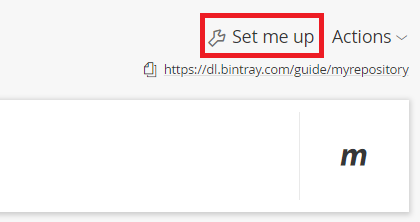
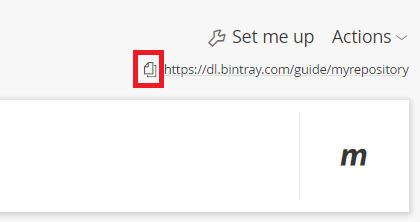
Fixed typos and image sizes

Changed region(s): [[0.4643, 0.0541, 0.7738, 0.2703], [0.3095, 0.2162, 0.4024, 0.4054]]

diff --git a/publish-kotlin-mpp-lib.html b/publish-kotlin-mpp-lib.html
@@ -60,7 +60,7 @@
                 <li>Add a new repository:</li>
             </ul>
 
-            <p><img src="images/publish-kotlin-mpp-lib/add-new-repository.png" class="img-responsive"
+            <p><img src="images/publish-kotlin-mpp-lib/add-new-repository.png"
                     alt="add new repostiory"/></p>
 
             <ul>
@@ -77,12 +77,12 @@
                 <li>Add a package:</li>
             </ul>
 
-            <p><img src="images/publish-kotlin-mpp-lib/add-new-package.png" alt="add new package" class="img-responsive"/>
+            <p><img src="images/publish-kotlin-mpp-lib/add-new-package.png" alt="add new package"/>
             </p>
 
             <ul>
                 <li><p>Under <b>Name </b> put in the name of the library. This should be a
-                    lower-case string. In this guide we will make publish a library that provides a
+                    lower-case string. In this guide we will publish a library that provides a
                     function that prints "Kotlin is awesome!", so we will call it <code>kotlin-awesome-printer</code>.
                 </p></li>
 
@@ -269,10 +269,10 @@ bintrayUpload.dependsOn publishToMavenLocal
                 the root directory.
                 Make sure you see <code>gradle.properties</code> is yellow in the IDE before
                 committing your changes to source control (git).
-                Now, add these constants to <code>gradle.properties</code>.    <code>bintrayUser</code>
+                Now, add these constants to <code>gradle.properties</code>. <code>bintrayUser</code>
                 - The username you signed up to bintray with. You can see this in your profile.
                 <code>bintrayApiKey</code> - To get this, go to edit profile -> API Key and then
-                copy to API Key.</p>
+                copy the API Key.</p>
 
             <pre><code>bintrayUser=
 bintrayApiKey=
@@ -291,12 +291,9 @@ bintrayApiKey=
             <h3 id="step4tellyourusershowtouseyourlibrary">Step 4: Tell your users how to use your
                 library</h3>
 
-            <p>Go to your package in Bintray and press <code>Set me up</code>:</p>
+            <p>Copy the link below <code>Set me up</code>:</p>
 
-            <p><img src="images/publish-kotlin-mpp-lib/set-me-up.png" class="img-responsive" class="img-responsive"  alt="set me up"/></p>
-
-            <p>Open up <code>Resolving artifacts using Gradle</code>. Copy the url that is presented
-                there (in our example it's "https://dl.bintray.com/guide/myrepository")</p>
+            <p><img src="images/publish-kotlin-mpp-lib/set-me-up.png" alt="set me up"/></p>
 
             <p>Showing your users something like this will suffice:</p>
 
@@ -304,7 +301,7 @@ bintrayApiKey=
 
 repositories {
     maven {
-        url  //PUT HERE THE URL YOU COPIED FROM "SET ME UP", in our example it would be 'url ""https://dl.bintray.com/guide/myrepository" ""'
+        url  //PUT HERE THE URL YOU COPIED FROM BELOW "SET ME UP", in our example it would be 'url ""https://dl.bintray.com/guide/myrepository" ""'
     }
 }
 </code></pre>
@@ -334,9 +331,9 @@ For JS: implementation 'com.fudge:KotlinAwesomePrinter-js:1.0'
 For Windows Native: implementation 'com.fudge:KotlinAwesomePrinter-mingw:1.0'
 </code></pre>
 
-            <p>If you don't know what to append in a certain platform, go to the link from "set me
-                up" ("https://dl.bintray.com/guide/myrepository" in the example) and go through the
-                directories until you see
+            <p>If you don't know what to append in a certain platform, go to the link from below
+                "set me up" ("https://dl.bintray.com/guide/myrepository" in the example) and go
+                through the directories until you see
                 a couple directories with the name of your project with a different '-' postfixes
                 for each one. Those are the postfixes your users will need to use.</p>
 

diff --git a/css/blog-post.css b/css/blog-post.css
@@ -6,3 +6,8 @@
 /*body {*/
 /*  padding-top: 56px;*/
 /*}*/
+
+img {
+    max-width: 100%;
+    max-height: 100%;
+}

diff --git a/publish-kotlin-mpp-lib.md b/publish-kotlin-mpp-lib.md
@@ -14,7 +14,7 @@ I will assume you have the 'new look', so press the `Go to New Look` button at t
  
  
 ![add new package](images/publish-kotlin-mpp-lib/add-new-package.png)
-- Under <b>Name </b> put in the name of the library. This should be a lower-case string. In this guide we will make publish a library that provides a function that prints "Kotlin is awesome!", so we will call it `kotlin-awesome-printer`. 
+- Under <b>Name </b> put in the name of the library. This should be a lower-case string. In this guide we will publish a library that provides a function that prints "Kotlin is awesome!", so we will call it `kotlin-awesome-printer`. 
 - Put in your desired licenses in <b>Licenses</b>.
 - In <b>Version control</b> put in where your code is stored. In our example, it will be [https://github.com/natanfudge/KotlinAwesomePrinter](https://github.com/natanfudge/KotlinAwesomePrinter).
 
@@ -182,7 +182,7 @@ bintrayUpload.dependsOn publishToMavenLocal
 Finally, you will need to add some secret information to your gradle.properties. For this reason, <b>you MUST remove gradle.properties from source control.</b>
 To do this, create a .gitignore file at the root of your project if you don't have one already, and add `gradle.properties` to it. Then, remove `gradle.properties` from source control by executing `git rm --cached gradle.properties` in the root directory.
 Make sure you see `gradle.properties` is yellow in the IDE before committing your changes to source control (git).
-Now, add these constants to `gradle.properties`.    `bintrayUser` - The username you signed up to bintray with. You can see this in your profile. `bintrayApiKey` - To get this, go to edit profile -> API Key and then copy to API Key.
+Now, add these constants to `gradle.properties`.    `bintrayUser` - The username you signed up to bintray with. You can see this in your profile. `bintrayApiKey` - To get this, go to edit profile -> API Key and then copy the API Key.
 ```
 bintrayUser=
 bintrayApiKey=
@@ -196,21 +196,18 @@ Run `gradle wrapper` if you haven't already, then run `gradlew clean` and then `
 Then go to your package in Bintray and click 'publish all' on the notification you will get.
 
 ### Step 4: Tell your users how to use your library
-Go to your package in Bintray and press `Set me up`:
+Copy the link below `Set me up`:
 
 
 ![set me up](images/publish-kotlin-mpp-lib/set-me-up.png)
 
-Open up `Resolving artifacts using Gradle`. Copy the url that is presented there (in our example it's "https://dl.bintray.com/guide/myrepository")
-
 Showing your users something like this will suffice:
 ```
-Add this to your `repositories` block in build.gradle:
 Add this to your `repositories` block in build.gradle:
 
 repositories {
 	maven {
-		url  //PUT HERE THE URL YOU COPIED FROM "SET ME UP", in our example it would be 'url ""https://dl.bintray.com/guide/myrepository" ""'
+		url  //PUT HERE THE URL YOU COPIED FROM BELOW "SET ME UP", in our example it would be 'url ""https://dl.bintray.com/guide/myrepository" ""'
 	}
 }
 
@@ -237,7 +234,7 @@ For JS: implementation 'com.fudge:KotlinAwesomePrinter-js:1.0'
 For Windows Native: implementation 'com.fudge:KotlinAwesomePrinter-mingw:1.0'
 ```
 
-If you don't know what to append in a certain platform, go to the link from "set me up" ("https://dl.bintray.com/guide/myrepository" in the example) and go through the directories until you see
+If you don't know what to append in a certain platform, go to the link from below "set me up" ("https://dl.bintray.com/guide/myrepository" in the example) and go through the directories until you see
 a couple directories with the name of your project with a different '-' postfixes for each one. Those are the postfixes your users will need to use.
 
 This example is available on [https://github.com/natanfudge/KotlinAwesomePrinter](https://github.com/natanfudge/KotlinAwesomePrinter).
